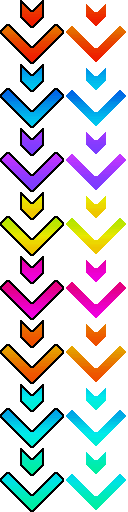
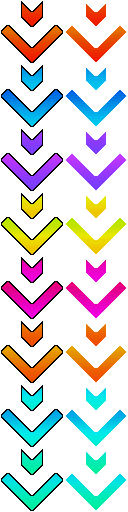
Speed modifier is now a ModifiableValue in the note column.  C-mod style speed mods are now possible. All transform and y offset calculations now use the time a note occurs at to support C-mods. New C-mods do not use the old bpm-style units, instead the work like any other mod.  Example (this puts a

diff --git a/src/NewField.cpp b/src/NewField.cpp
@@ -28,7 +28,6 @@ using std::unordered_set;
 using std::vector;
 
 static const double note_size= 64.0;
-static double speed_multiplier= 4.0;
 
 static const char* NewSkinTapPartNames[] = {
 	"Tap",
@@ -899,6 +898,7 @@ REGISTER_ACTOR_CLASS(NewFieldColumn);
 NewFieldColumn::NewFieldColumn()
 	:m_quantization_multiplier(&m_mod_manager, 1.0),
 	 m_quantization_offset(&m_mod_manager, 0.0),
+	 m_speed_mod(&m_mod_manager, 1.0),
 	 m_reverse_offset_pixels(&m_mod_manager, 0.0),
 	 m_reverse_percent(&m_mod_manager, 0.0),
 	 m_center_percent(&m_mod_manager, 0.0),
@@ -936,19 +936,14 @@ void NewFieldColumn::update_displayed_beat(double beat, double second)
 	}
 }
 
-double NewFieldColumn::calc_y_offset_for_beat(double beat)
+double NewFieldColumn::calc_y_offset(double beat, double second)
 {
-	return beat * note_size * speed_multiplier;
+	mod_val_inputs input(beat, second, m_curr_beat, m_curr_second);
+	return note_size * m_speed_mod.evaluate(input);
 }
 
-double NewFieldColumn::calc_beat_for_y_offset(double y_offset)
+void NewFieldColumn::calc_transform(double beat, double second, transform& trans)
 {
-	return y_offset / (speed_multiplier * note_size);
-}
-
-void NewFieldColumn::calc_transform_for_beat(double beat, transform& trans)
-{
-	double second= m_timing_data->GetElapsedTimeFromBeat(beat);
 	mod_val_inputs input(beat, second, m_curr_beat, m_curr_second);
 	m_note_mod.evaluate(input, trans);
 }
@@ -1063,7 +1058,7 @@ struct hold_texture_handler
 	double prev_partial;
 	int prev_phase;
 	bool started_bottom;
-	hold_texture_handler(double const note_size, double const y, double const len, double const tex_t, double const tex_b)
+	hold_texture_handler(double const note_size, double const head_y, double const tail_y, double const tex_t, double const tex_b)
 	{
 		tex_top= tex_t;
 		tex_bottom= tex_b;
@@ -1073,9 +1068,9 @@ struct hold_texture_handler
 		tex_cap_end= tex_top + tex_cap_height;
 		tex_body_end= tex_bottom - tex_cap_height;
 		tex_per_y= tex_body_height / note_size;
-		start_y= y - (note_size * .5);
-		body_start_y= y;
-		body_end_y= y + (len * note_size);
+		start_y= head_y - (note_size * .5);
+		body_start_y= head_y;
+		body_end_y= tail_y;
 		end_y= body_end_y + (note_size * .5);
 		// constants go above this line.
 		prev_partial= 2.0;
@@ -1168,6 +1163,21 @@ private:
 	}
 };
 
+struct hold_time_lerper
+{
+	double start_y_off;
+	double y_off_len;
+	double start_time;
+	double time_len;
+	hold_time_lerper(double sy, double yl, double st, double tl)
+		:start_y_off(sy), y_off_len(yl), start_time(st), time_len(tl)
+	{}
+	double lerp(double y_off)
+	{
+		return (((y_off - start_y_off) * time_len) / y_off_len) + start_time;
+	}
+};
+
 static void add_vert_strip(float const tex_y, strip_buffer& verts_to_draw,
 	RageVector3 const& left, RageVector3 const& center,
 	RageVector3 const& right, RageColor const& color,
@@ -1178,7 +1188,7 @@ static void add_vert_strip(float const tex_y, strip_buffer& verts_to_draw,
 	verts_to_draw.add_vert(right, color, RageVector2(tex_right, tex_y));
 }
 
-void NewFieldColumn::draw_hold(QuantizedHoldRenderData& data, double x, double y, double len)
+void NewFieldColumn::draw_hold(QuantizedHoldRenderData& data, double head_beat, double head_second, double len)
 {
 	// pos_z_vec will be used later to orient the hold.  Read below. -Kyz
 	static const RageVector3 pos_z_vec(0.0f, 0.0f, 1.0f);
@@ -1205,7 +1215,14 @@ void NewFieldColumn::draw_hold(QuantizedHoldRenderData& data, double x, double y
 		default:
 			break;
 	}
-	hold_texture_handler tex_handler(note_size, y, len, tex_top, tex_bottom);
+	double tail_beat= head_beat + len;
+	double tail_second= m_timing_data->GetElapsedTimeFromBeat(tail_beat);
+	double head_y_offset= calc_y_offset(head_beat, head_second);
+	double tail_y_offset= calc_y_offset(tail_beat, tail_second);
+	double y_off_len= tail_y_offset - head_y_offset;
+	hold_time_lerper beat_lerper(head_y_offset, y_off_len, head_beat, tail_beat - head_beat);
+	hold_time_lerper second_lerper(head_y_offset, y_off_len, head_second, tail_second - head_second);
+	hold_texture_handler tex_handler(note_size, head_y_offset, tail_y_offset, tex_top, tex_bottom);
 	double const body_start_render_y= apply_reverse_shift(tex_handler.body_start_y);
 	double const body_end_render_y= apply_reverse_shift(tex_handler.body_end_y);
 	double const tex_center= (tex_left + tex_right) * .5;
@@ -1232,9 +1249,11 @@ void NewFieldColumn::draw_hold(QuantizedHoldRenderData& data, double x, double y
 		{
 			last_vert_set= true;
 		}
+		double curr_beat= beat_lerper.lerp(curr_y);
+		double curr_second= second_lerper.lerp(curr_y);
 
 		transform trans;
-		calc_transform_for_beat(m_curr_beat + calc_beat_for_y_offset(curr_y), trans);
+		calc_transform(curr_beat, curr_second, trans);
 
 		// TODO: get render_forward from a spline.
 		const RageVector3 render_forward(0.0f, 1.0f, 0.0f);
@@ -1268,10 +1287,10 @@ void NewFieldColumn::draw_hold(QuantizedHoldRenderData& data, double x, double y
 				break;
 		}
 		const RageVector3 left_vert(
-			x + render_left.x + trans.pos.x, render_y + render_left.y,
+			render_left.x + trans.pos.x, render_y + render_left.y,
 			render_left.z + trans.pos.z);
-		const RageVector3 center_vert(x + trans.pos.x, render_y, 0 + trans.pos.z);
-		const RageVector3 right_vert(x + -render_left.x + trans.pos.x, render_y -render_left.y, -render_left.z + trans.pos.z);
+		const RageVector3 center_vert(trans.pos.x, render_y, 0 + trans.pos.z);
+		const RageVector3 right_vert(-render_left.x + trans.pos.x, render_y -render_left.y, -render_left.z + trans.pos.z);
 		const RageColor color(1.0, 1.0, 1.0, 1.0);
 #define add_vert_strip_args verts_to_draw, left_vert, center_vert, right_vert, color, tex_left, tex_center, tex_right
 		for(size_t i= 0; i < tex_coords.size(); ++i)
@@ -1316,18 +1335,25 @@ void NewFieldColumn::update_active_hold(TapNote const& tap)
 	}
 }
 
-double NewFieldColumn::get_hold_draw_beat(TapNote const& tap, double const hold_beat)
+void NewFieldColumn::get_hold_draw_time(TapNote const& tap, double const hold_beat, double& beat, double& second)
 {
 	double const last_held= tap.HoldResult.GetLastHeldBeat();
 	if(last_held > hold_beat)
 	{
 		if(fabs(last_held - m_curr_beat) < .01)
 		{
-			return m_curr_beat;
+			beat= m_curr_beat;
+			second= m_curr_second;
+			return;
 		}
-		return last_held;
+		// TODO: Figure out whether this does the wrong thing for holds that are
+		// released during a stop.
+		beat= last_held;
+		second= m_timing_data->GetElapsedTimeFromBeat(beat);
+		return;
 	}
-	return hold_beat;
+	beat= hold_beat;
+	second= m_timing_data->GetElapsedTimeFromBeat(beat);
 }
 
 void NewFieldColumn::build_render_lists()
@@ -1342,8 +1368,8 @@ void NewFieldColumn::build_render_lists()
 	m_status.dist_to_upcoming_arrow= 1000.0;
 	m_status.prev_active_hold= m_status.active_hold;
 	m_status.active_hold= nullptr;
-	double first_beat= m_curr_beat + calc_beat_for_y_offset(first_y_offset_visible);
-	double last_beat= m_curr_beat + calc_beat_for_y_offset(last_y_offset_visible);
+	double first_beat= m_timing_data->GetBeatFromElapsedTime(m_curr_second - 1.0);
+	double last_beat= m_timing_data->GetBeatFromElapsedTime(m_curr_second + 10.0);
 	double dist_factor= 1.0 / (last_beat - m_curr_beat);
 	NoteData::TrackMap::const_iterator begin, end;
 	m_note_data->GetTapNoteRangeInclusive(m_column, BeatToNoteRow(first_beat),
@@ -1432,13 +1458,13 @@ void NewFieldColumn::draw_holds_internal()
 		bool active= tn.HoldResult.bActive && tn.HoldResult.fLife > 0.0f;
 		QuantizedHoldRenderData data;
 		m_newskin->get_hold_render_data(tn.subType, active, reverse, quantization, beat, data);
-		double hold_draw_beat= get_hold_draw_beat(tn, hold_beat);
+		double hold_draw_beat;
+		double hold_draw_second;
+		get_hold_draw_time(tn, hold_beat, hold_draw_beat, hold_draw_second);
 		double passed_amount= hold_draw_beat - hold_beat;
 		if(!data.parts.empty())
 		{
-			double y= calc_y_offset_for_beat(hold_draw_beat - m_curr_beat);
-			draw_hold(data, 0.0, y, (NoteRowToBeat(tn.iDuration) - passed_amount)
-				* speed_multiplier);
+			draw_hold(data, hold_draw_beat, hold_draw_second, NoteRowToBeat(tn.iDuration) - passed_amount);
 		}
 	}
 }
@@ -1446,10 +1472,11 @@ void NewFieldColumn::draw_holds_internal()
 struct tap_draw_info
 {
 	double draw_beat;
+	double draw_second;
 	double y_offset;
 	Actor* act;
 	tap_draw_info()
-		:draw_beat(0.0), y_offset(0.0), act(nullptr)
+		:draw_beat(0.0), draw_second(0.0), y_offset(0.0), act(nullptr)
 	{}
 };
 
@@ -1467,6 +1494,8 @@ void NewFieldColumn::draw_taps_internal()
 		NewSkinTapOptionalPart tail_part= NewSkinTapOptionalPart_Invalid;
 		double head_beat;
 		double tail_beat;
+		double head_second;
+		double tail_second;
 		switch(tn.type)
 		{
 			case TapNoteType_Mine:
@@ -1479,7 +1508,7 @@ void NewFieldColumn::draw_taps_internal()
 				break;
 			case TapNoteType_HoldHead:
 				part= NewSkinTapPart_Invalid;
-				head_beat= get_hold_draw_beat(tn, tap_beat);
+				get_hold_draw_time(tn, tap_beat, head_beat, head_second);
 				tail_beat= m_curr_beat + NoteRowToBeat(tn.iDuration);
 				switch(tn.subType)
 				{
@@ -1511,27 +1540,32 @@ void NewFieldColumn::draw_taps_internal()
 		vector<tap_draw_info> acts(2);
 		if(part != NewSkinTapPart_Invalid)
 		{
+			head_second= m_timing_data->GetElapsedTimeFromBeat(head_beat);
 			acts[0].draw_beat= head_beat;
-			acts[0].y_offset= calc_y_offset_for_beat(head_beat - m_curr_beat);
+			acts[0].y_offset= calc_y_offset(head_beat, head_second);
 			if(y_offset_visible(acts[0].y_offset))
 			{
 				acts[0].act= m_newskin->get_tap_actor(part, quantization, beat);
+				acts[0].draw_second= m_timing_data->GetElapsedTimeFromBeat(head_beat);
 			}
 		}
 		else
 		{
+			tail_second= m_timing_data->GetElapsedTimeFromBeat(tail_beat);
 			// Put tails on the list first because they need to be under the heads.
 			acts[0].draw_beat= tail_beat;
-			acts[0].y_offset= calc_y_offset_for_beat(tail_beat - m_curr_beat);
+			acts[0].y_offset= calc_y_offset(tail_beat, tail_second);
 			if(y_offset_visible(acts[0].y_offset))
 			{
 				acts[0].act= m_newskin->get_optional_actor(tail_part, quantization, beat);
+				acts[0].draw_second= tail_second;
 			}
 			acts[1].draw_beat= head_beat;
-			acts[1].y_offset= calc_y_offset_for_beat(head_beat - m_curr_beat);
+			acts[1].y_offset= calc_y_offset(head_beat, head_second);
 			if(y_offset_visible(acts[1].y_offset))
 			{
 				acts[1].act= m_newskin->get_optional_actor(head_part, quantization, beat);
+				acts[1].draw_second= head_second;
 			}
 		}
 		for(auto&& act : acts)
@@ -1541,7 +1575,7 @@ void NewFieldColumn::draw_taps_internal()
 			if(act.act != nullptr)
 			{
 				transform trans;
-				calc_transform_for_beat(act.draw_beat, trans);
+				calc_transform(act.draw_beat, act.draw_second, trans);
 				trans.pos.y+= apply_reverse_shift(act.y_offset);
 				act.act->set_transform(trans);
 				act.act->Draw();
@@ -1918,6 +1952,7 @@ struct LunaNewFieldColumn : Luna<NewFieldColumn>
 {
 	GET_MEMBER(quantization_multiplier);
 	GET_MEMBER(quantization_offset);
+	GET_MEMBER(speed_mod);
 	GET_MEMBER(reverse_offset_pixels);
 	GET_MEMBER(reverse_percent);
 	GET_MEMBER(center_percent);
@@ -1927,8 +1962,7 @@ struct LunaNewFieldColumn : Luna<NewFieldColumn>
 	{
 		ADD_METHOD(get_quantization_multiplier);
 		ADD_METHOD(get_quantization_offset);
-		ADD_METHOD(get_quantization_multiplier);
-		ADD_METHOD(get_quantization_offset);
+		ADD_METHOD(get_speed_mod);
 		ADD_METHOD(get_reverse_offset_pixels);
 		ADD_METHOD(get_reverse_percent);
 		ADD_METHOD(get_center_percent);
@@ -1940,19 +1974,6 @@ LUA_REGISTER_DERIVED_CLASS(NewFieldColumn, ActorFrame);
 
 struct LunaNewField : Luna<NewField>
 {
-	static int get_curr_beat(T* p, lua_State* L)
-	{
-		return 1;
-	}
-	static int set_curr_beat(T* p, lua_State* L)
-	{
-		COMMON_RETURN_SELF;
-	}
-	static int set_speed(T* p, lua_State* L)
-	{
-		speed_multiplier= FArg(1);
-		COMMON_RETURN_SELF;
-	}
 	static int set_steps(T* p, lua_State* L)
 	{
 		Steps* data= Luna<Steps>::check(L, 1);
@@ -1967,8 +1988,6 @@ struct LunaNewField : Luna<NewField>
 	GET_TRANS(trans);
 	LunaNewField()
 	{
-		ADD_METHOD(set_speed);
-		ADD_GET_SET_METHODS(curr_beat);
 		ADD_METHOD(set_steps);
 		ADD_METHOD(get_columns);
 		ADD_TRANS(trans);

diff --git a/src/NewField.h b/src/NewField.h
@@ -404,19 +404,15 @@ struct NewFieldColumn : ActorFrame
 	void set_column_info(size_t column, NewSkinColumn* newskin,
 		const NoteData* note_data, const TimingData* timing_data, double x);
 
-	double get_hold_draw_beat(TapNote const& tap, double const hold_beat);
-	void draw_hold(QuantizedHoldRenderData& data, double x, double y, double len);
+	void get_hold_draw_time(TapNote const& tap, double const hold_beat, double& beat, double& second);
+	void draw_hold(QuantizedHoldRenderData& data, double head_beat,
+		double head_second, double len);
 	void update_displayed_beat(double beat, double second);
 	bool y_offset_visible(double off)
 	{
 		return off >= first_y_offset_visible && off <= last_y_offset_visible;
 	}
-	double calc_y_offset_for_beat(double beat);
-	double calc_y_offset_for_curr_beat()
-	{
-		return calc_y_offset_for_beat(m_curr_beat);
-	}
-	double calc_beat_for_y_offset(double y_offset);
+	double calc_y_offset(double beat, double second);
 	double quantization_for_beat(double beat)
 	{
 		double second= m_timing_data->GetElapsedTimeFromBeat(beat);
@@ -425,11 +421,12 @@ struct NewFieldColumn : ActorFrame
 		double offset= m_quantization_offset.evaluate(input);
 		return fmodf((beat * mult) + offset, 1.0);
 	}
-	void calc_transform_for_beat(double beat, transform& trans);
+	void calc_transform(double beat, double second, transform& trans);
 	void calc_transform_for_head(transform& trans)
 	{
-		double render_y= apply_reverse_shift(0.0);
-		calc_transform_for_beat(m_curr_beat, trans);
+		double y_offset= calc_y_offset(m_curr_beat, m_curr_second);
+		double render_y= apply_reverse_shift(y_offset);
+		calc_transform(m_curr_beat, m_curr_second, trans);
 		trans.pos.x+= GetX();
 		trans.pos.y+= GetY() + render_y;
 		trans.pos.z+= GetZ();
@@ -472,6 +469,8 @@ struct NewFieldColumn : ActorFrame
 	ModManager m_mod_manager;
 	ModifiableValue m_quantization_multiplier;
 	ModifiableValue m_quantization_offset;
+
+	ModifiableValue m_speed_mod;
 
 	ModifiableValue m_reverse_offset_pixels;
 	ModifiableValue m_reverse_percent;
